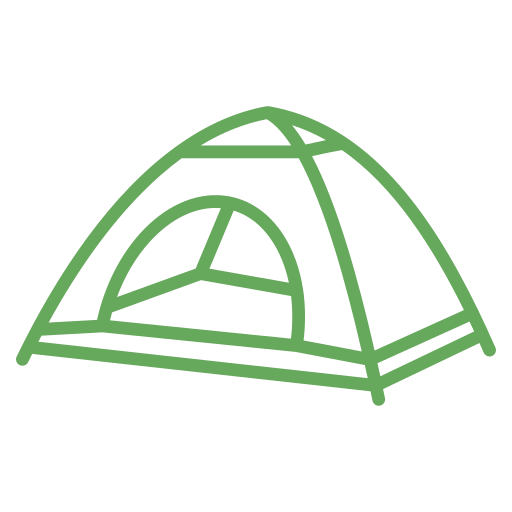
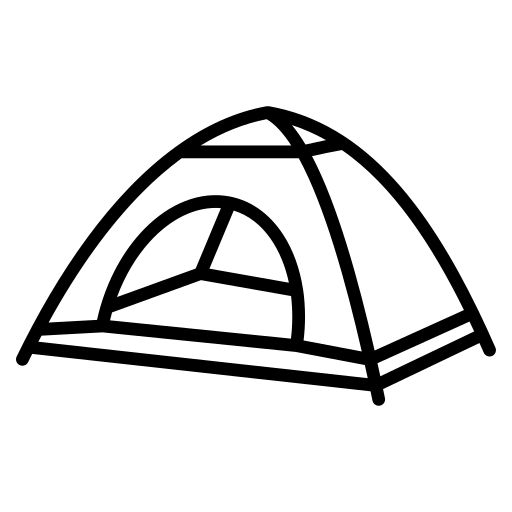
Goods_slider

Changed region(s): [[0.0312, 0.1875, 0.9688, 0.8125]]

diff --git a/index.html b/index.html
@@ -4,10 +4,29 @@
     <meta charset="UTF-8">
     <meta name="viewport" content="width=device-width, initial-scale=1.0">
     <link rel="stylesheet" href="css/base.css">
+    <link rel="stylesheet" href="css/header.css">
     <link rel="stylesheet" href="css/introduction.css">
+    <link rel="stylesheet" href="css/goods.css">
     <title>Best-turism</title>
 </head>
 <body>
+    <header>
+        <section class="header">
+            <a href="#" class="header">Главная</a>
+            <a href="#" class="header">Товары</a>
+            <a href="#" class="header">Подписка</a>
+            <a href="#" class="header">Этапы</a>
+            <a href="#" class="header">Заказать</a>
+        </section>
+
+        <section class="welcome_content">
+            <div class="inform_wc">
+                <h1>оборудование для туризма</h1>
+                <p>Заказывайте оборудование для туризма, а доставка останется за нами!</p>
+                <button>Заказать</button>
+            </div>
+        </section>
+    </header>
 
     <section class="introduction">
         <p class="title">Поход — это всегда очень непросто, предстоит определиться с многими вопросами. Как одеваться? Какой рюкзак выбрать? А ещё спальник и палатку? Какую еду брать? Мы поможем вам найти ответы на все вопросы с помощью нашего оборудования для туризма!</p>
@@ -34,6 +53,103 @@
             </div>
         </div>
     </section>
-    
+
+    <section class="goods">
+        <h1>что мы предлагаем</h1>
+        <div class="slider">
+            <div class="track">
+                <div class="container">
+                    <div class="information_slider">
+                        <h3>палатки и тенты</h3>
+                        <p>Палатки и тенты пригодны для любых широт, у нас есть на 
+                            выбор всё, с подогревом, или с охлаждением, всё зависит 
+                            от вашего выбора и т.д.</p>
+                        <h2>от 6000₽</h2>
+                        <button>Заказать</button>
+                    </div>
+                    <div class="img_wrap">
+                        <img src="./img/goods/tent.png" alt="Ошибочка">
+                    </div>
+                </div>
+
+                <div class="container">
+                    <div class="information_slider">
+                        <h3>спальные мешки и коврики</h3>
+                        <p>Если ваше путешествие не требует большого количества суток 
+                            и не будет сопровождаться плохой погодой, для вас подойдут 
+                            наши особые спальники</p>
+                        <h2>от 4000₽</h2>
+                        <button>Заказать</button>
+                    </div>
+                    <div class="img_wrap">
+                        <img src="./img/goods/sleeping_bag.png" alt="Ошибочка">
+                    </div>
+                </div>
+
+                <div class="container">
+                    <div class="information_slider">
+                        <h3>одежда и обувь</h3>
+                        <p>Подготовьтесь к любым условиям. Наша походная обувь 
+                            и одежда обеспечивают максимальный комфорт и 
+                            надёжную защиту в каждом приключении.</p>
+                        <h2>от 5000₽</h2>
+                        <button>Заказать</button>
+                    </div>
+                    <div class="img_wrap">
+                        <img src="./img/goods/bonfire.png" alt="Ошибочка">
+                    </div> 
+                </div>
+
+                <div class="container">
+                    <div class="information_slider">
+                        <h3>рюкзаки и вещмешки</h3>
+                        <p>Наши рюкзаки крайне вместительны и при этом не теряют 
+                            своей прочности. Их грузоподъёмность зависит от цены 
+                            самого производства</p>
+                        <h2>от 3000₽</h2>
+                        <button>Заказать</button>
+                    </div>
+                    <div class="img_wrap">
+                        <img src="./img/goods/travel_bag.png" alt="Ошибочка">
+                    </div>
+                </div>
+
+                <div class="container">
+                    <div class="information_slider">
+                        <h3>мебель для кемпинга</h3>
+                        <p>Наша мебель сделает ваш отдых и опыт путешествий 
+                            и туризма гораздо более комфортным. 
+                            Приобретайте стулья и получите скидку</p>
+                        <h2>от 2000₽</h2>
+                        <button>Заказать</button>
+                    </div>
+                    <div class="img_wrap">
+                        <img src="./img/goods/camping__furnitor.png" alt="Ошибочка">
+                    </div>
+                </div>
+
+                <div class="container">
+                    <div class="information_slider">
+                        <h3>все для костра</h3>
+                        <p>Продаём материалы для розжига и поддержания работы костров. 
+                            Осветите ваш лагерь естественным светом вместе с нашими 
+                            товарами</p>
+                        <h2>от 500₽</h2>
+                        <button>Заказать</button>
+                    </div>
+                    <div class="img_wrap">
+                        <img src="./img/goods/bonfire.png" alt="Ошибочка">
+                    </div> 
+                </div>
+        </div>
+    </section>
+    <div class="dots">
+            <div class="dot"></div>
+            <div class="dot"></div>
+            <div class="dot"></div>
+            <div class="dot"></div>
+            <div class="dot"></div>
+            <div class="dot"></div>
+        </div>
 </body>
 </html>

diff --git a/css/goods.css b/css/goods.css
@@ -1,0 +1,105 @@
+section.goods{
+    width: 100%;
+    height: 600px;
+    display: flex;
+    align-items: center;
+    flex-direction: column;
+    background-color: var(--color-blue);
+    padding-top: 80px;
+}
+section.goods h1{
+    font-size: 35px;
+    padding: 20px 0;
+}
+div.slider{
+    overflow: hidden;
+    position: relative;
+    display: flex;
+    justify-content: center;
+    align-items: center;
+}
+div.track{
+    width: 100%;
+    height: 100%;
+    display: flex;
+    transition-duration: 1s;
+}
+div.container{
+    width: 100%; 
+    height: 100%; 
+    flex-shrink: 0;
+
+    display: flex;
+    flex-direction: row;
+    gap: 20px;
+    justify-content: center;
+}
+div.information_slider{
+    width: 30%;
+    text-align: center;
+
+    display: flex;
+    flex-direction: column;
+    justify-content: center;
+    align-items: center;
+}
+div.information_slider h3{
+    font-size: 25px;
+    padding: 5px 0;
+}
+div.information_slider h2{
+    padding: 10px;
+}
+div.image-wrapper {
+    width: 50%; 
+    display: flex;
+    justify-content: center; 
+    align-items: center;
+}
+div.container img{
+    object-fit: contain;
+    width: 100%;  
+    height: 100%;
+}
+div.information_slider button{
+    font-family: header;
+    font-size: 20px;
+    padding: 5px 15px;
+    border-radius: 10px;
+    background-color: var(--color-brown);
+    border: 5px solid var(--color-brown);
+    color: var(--color-white);
+}
+div.information_slider button:hover{
+    background-color: #503c26;
+    border: 5px solid  #503c26;
+}
+div.dots{
+    display: flex;
+    align-items: center;
+    justify-content: center;
+    background-color: var(--color-blue);
+    padding-bottom: 80px;
+}
+div.dot {
+    height: 15px;
+    width: 15px;
+    margin: 0 5px;
+    border-radius: 50%;
+    display: inline-block;
+    background-color: var(--color-white);
+    transition: 0.6s ease;
+}
+.active {
+    background-color: var(--color-orange);
+}
+
+.fade {
+    animation-name: fade;
+    animation-duration: 1.5s;
+}
+
+@keyframes fade {
+    from {opacity: .4} 
+    to {opacity: 1}
+}

diff --git a/css/header.css b/css/header.css
@@ -1,0 +1,60 @@
+header{
+    width: 100%;
+    height: 950px;
+    background-image: url(/project228/img/background.png);
+    background-color: #041f1e56;
+    background-position: bottom;
+    background-size: cover;
+    background-blend-mode: darken;
+}
+section.header{
+    display: flex;
+    flex-direction: row;
+    justify-content: center;
+    align-items: center;
+    gap: 10px;
+    padding: 10px;
+    position: fixed;
+    top: 0;
+    left: 40%;
+}
+.bg_color_for_sh{
+    background-color: var(--color-white);
+    color: black;
+}
+section.header a{
+    padding: 5px 0;
+}
+section.header a:hover{
+    color: var(--color-orange);
+}
+section.welcome_content{
+    width: 100%;
+    height: 100%;
+    display: flex;
+    justify-content: center;
+    align-items: center;
+}
+div.inform_wc{
+    width: 800px;
+}
+div.inform_wc h1{
+    text-transform: uppercase;
+}
+div.inform_wc p{
+    font-size: 20px;
+    padding: 5px 0;
+}
+div.inform_wc button{
+    font-family: header;
+    font-size: 20px;
+    padding: 5px 15px;
+    border-radius: 10px;
+    background-color: var(--color-blue);
+    border: 5px solid var(--color-blue);
+    color: var(--color-white);
+}
+div.inform_wc button:hover{
+    background-color: #92a898;
+    border: 5px solid #92a898;
+}

diff --git a/css/base.css b/css/base.css
@@ -21,9 +21,12 @@ body {
 }
 
 :root {
-    --color-green: #9dba04;
+    --color-green: #041F1E;
     --color-white: #f4f4f4;
     --color-black: #121212;
+    --color-orange: #FF9F1C;
+    --color-blue: #B3CBB9;
+    --color-brown: #684E32;
 }
 
 img {
@@ -34,20 +37,33 @@ img {
 
 p {
     font-size: 15px;
+    font-family: base;
+    color: var(--color-white);
 }
 
 h1 {
     font-size: 55px;
     font-family: header;
+    color: var(--color-white);
 }
 
 h2 {
     font-size: 31px;
     font-family: header;
+    color: var(--color-white);
 }
 
 h3 {
     font-size: 17px;
     font-weight: 400;
+    font-family: header;
+    color: var(--color-white);
+}
+h1, h2, h3{
+    text-transform: uppercase;
+}
+a{
+    text-decoration: none;
+    color: var(--color-white);
     font-family: header;
 }